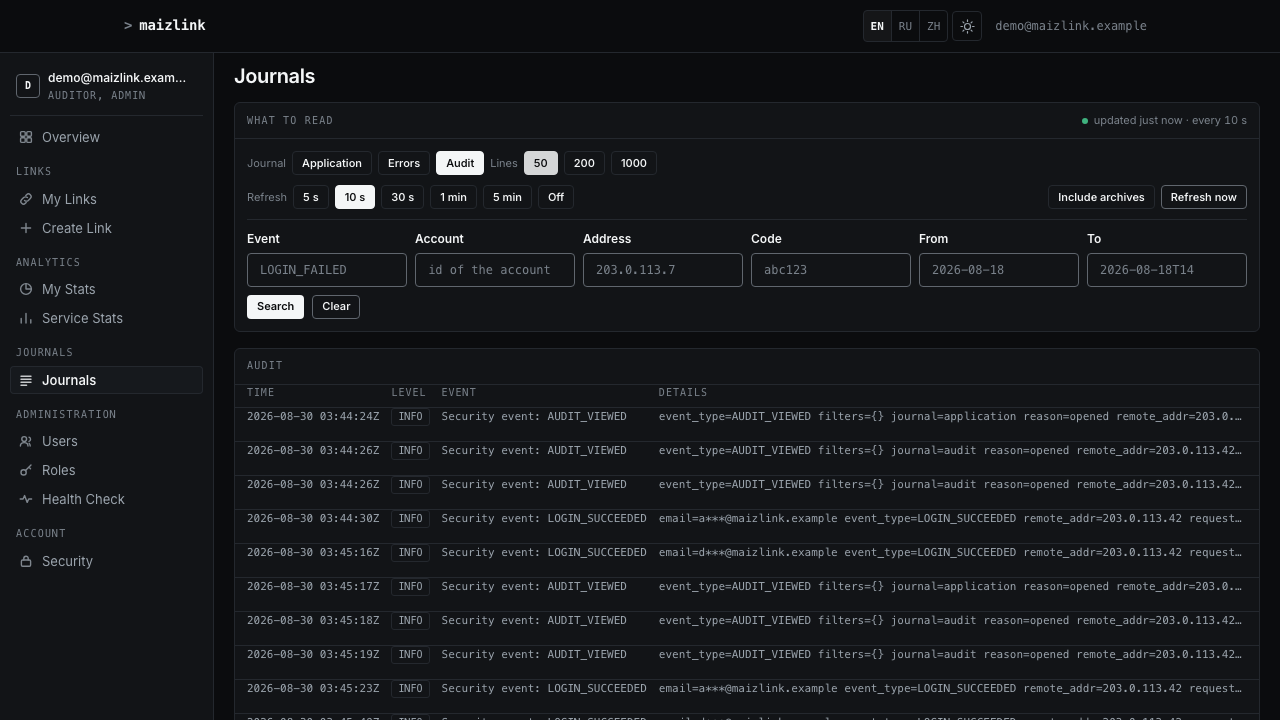
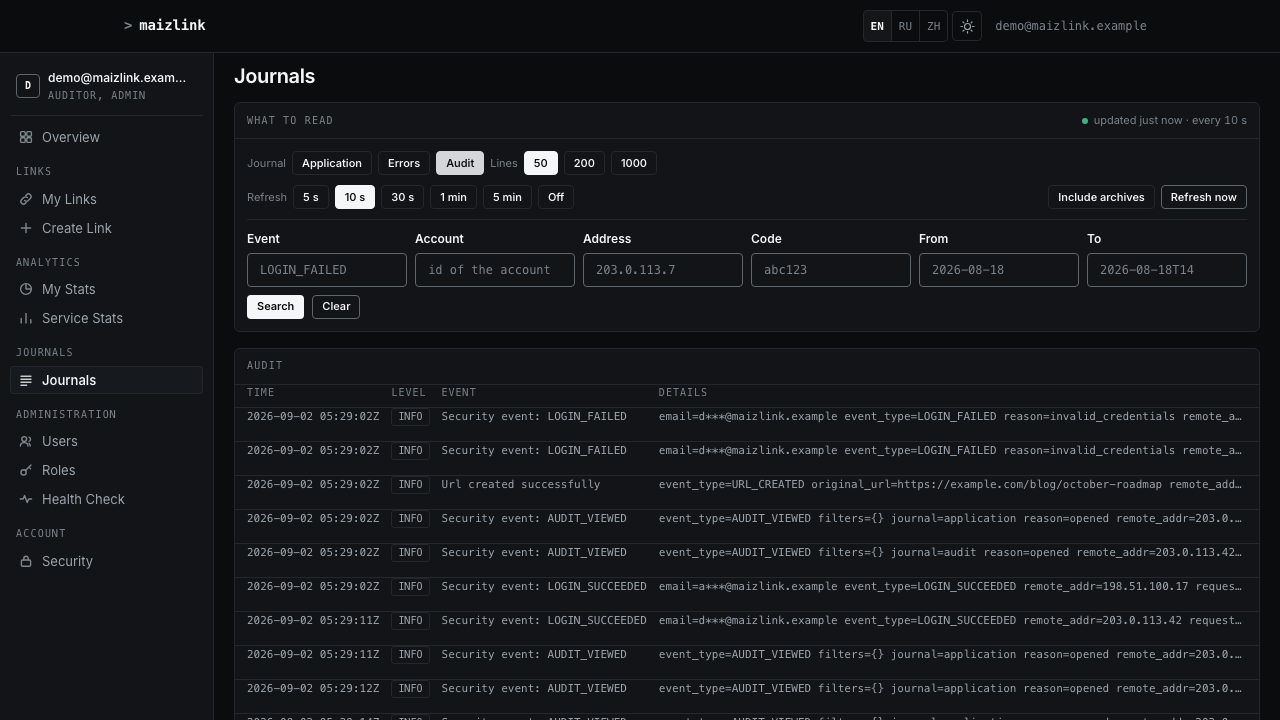
docs(media): reshoot every picture against the current interface, and show the square
- The screenshots were taken before the QR code existed, so the feature the README lists among the things this service does appeared in no picture at all -- and the two getting-started guides did not mention it in prose either, which is how a feature ships and stays invisible - `link-qr.png` is new and is where that is fixed: one link's own page, with the destination, the SVG square, the click totals and the chart of its visits. Both guides gained a paragraph beside it saying what the square encodes and why that is the short address rather than the destination -- the click is still counted, the expiry still applies, and deleting the link stops every printed copy - `demo.gif` is rebuilt over the same story with two beats added: the link's own page with its square, and the users page. Fifteen frames again, and the palette is quantised over all of them at once rather than over the first, because a palette taken from a light frame collapses the chart colours on every dark one - `dashboard.png`, `journals.png` and `sidebar-by-role.png` are retaken against the current pages. `role-permissions.png` came back byte for byte identical, which is the honest answer for a page that has not changed - The journal picture is better evidence than the one it replaces: it shows a refused sign-in, a link created and the audit being read, rather than nine identical lines. Its addresses are from the documentation ranges, reached by trusting the stand's own gateway, so nothing real is published
[…]

diff --git a/tests/live/browser_test.py b/tests/live/browser_test.py
@@ -7,7 +7,7 @@ drives the Flask test client, which has no browser in it -- so the twelve
 files that turn an API answer into something a person reads are, as far as
 any other run can tell, empty. Reversing ``data.message || data.error`` in
 all twelve -- putting the machine-readable code back in front of the
-sentence on every form -- leaves the suite green at 5209 and the HTTP run
+sentence on every form -- leaves the suite green at 5210 and the HTTP run
 green at 159/159, and takes this one down to twenty of the sixty-seven
 checks it held when that was measured. The suite size and the HTTP figure
 are the live ones, kept by `test_the_documented_suite_size` and by the

diff --git a/tests/unit/test_the_translations_carry_the_same_facts.py b/tests/unit/test_the_translations_carry_the_same_facts.py
@@ -77,7 +77,7 @@ EXPECTED = {
     },
     "docs/getting-started.md": {
         "setting": 22, "command": 10, "route": 4, "permission": 8,
-        "image": 1, "number": 25,
+        "image": 2, "number": 25,
     },
 }
 """How much each pattern finds today, in the English of each pair.

diff --git a/README.ru.md b/README.ru.md
@@ -11,7 +11,7 @@
 
 [![tests](https://github.com/IAMN1/link-shortener/actions/workflows/tests.yml/badge.svg)](https://github.com/IAMN1/link-shortener/actions/workflows/tests.yml)
 [![Python 3.12](https://img.shields.io/badge/python-3.12-3776AB?logo=python&logoColor=white)](https://www.python.org/)
-[![тестов: 5209](https://img.shields.io/badge/%D1%82%D0%B5%D1%81%D1%82%D0%BE%D0%B2-5209-0b5d3b)](docs/testing.md)
+[![тестов: 5210](https://img.shields.io/badge/%D1%82%D0%B5%D1%81%D1%82%D0%BE%D0%B2-5210-0b5d3b)](docs/testing.md)
 [![покрытие: 98%](https://img.shields.io/badge/%D0%BF%D0%BE%D0%BA%D1%80%D1%8B%D1%82%D0%B8%D0%B5-98%25-0b5d3b)](docs/testing.md)
 [![mypy: 0](https://img.shields.io/badge/mypy-0%20%D0%BE%D1%88%D0%B8%D0%B1%D0%BE%D0%BA-0b5d3b)](docs/testing.md)
 [![лицензия: Apache 2.0](https://img.shields.io/badge/%D0%BB%D0%B8%D1%86%D0%B5%D0%BD%D0%B7%D0%B8%D1%8F-Apache%202.0-blue)](LICENSE)
@@ -23,7 +23,7 @@
 
 [English](README.md) · **Русский**
 
-<img src="docs/media/demo.gif" alt="Длинный адрес сокращают, переключают тему на тёмную и открывают панель: ссылки, месяц статистики по устройствам и браузерам, журнал аудита и редактор ролей" width="820">
+<img src="docs/media/demo.gif" alt="Длинный адрес сокращают, переключают тему на тёмную и открывают панель: ссылки, страница одной ссылки с её QR-квадратом, месяц статистики по устройствам и браузерам, журнал аудита, список учётных записей и редактор ролей" width="820">
 
 </div>
 
@@ -213,7 +213,7 @@ flowchart LR
 ## Тестирование
 
 ```bash
-uv run pytest tests/                      # 5209 тестов
+uv run pytest tests/                      # 5210 тестов
 uv run python tests/live/smoke_test.py    # 159 проверок по HTTP
 uv run python tests/live/browser_test.py  # 71 проверки настоящим браузером
 ```

diff --git a/README.md b/README.md
@@ -9,7 +9,7 @@ suite that fails when the documentation starts lying.
 
 [![tests](https://github.com/IAMN1/link-shortener/actions/workflows/tests.yml/badge.svg)](https://github.com/IAMN1/link-shortener/actions/workflows/tests.yml)
 [![Python 3.12](https://img.shields.io/badge/python-3.12-3776AB?logo=python&logoColor=white)](https://www.python.org/)
-[![tests: 5209](https://img.shields.io/badge/tests-5209-0b5d3b)](docs/testing.md)
+[![tests: 5210](https://img.shields.io/badge/tests-5210-0b5d3b)](docs/testing.md)
 [![coverage: 98%](https://img.shields.io/badge/coverage-98%25-0b5d3b)](docs/testing.md)
 [![mypy: strict](https://img.shields.io/badge/mypy-0%20errors-0b5d3b)](docs/testing.md)
 [![license: Apache 2.0](https://img.shields.io/badge/license-Apache%202.0-blue)](LICENSE)
@@ -21,7 +21,7 @@ suite that fails when the documentation starts lying.
 
 **English** · [Русский](README.ru.md)
 
-<img src="docs/media/demo.gif" alt="A long address is shortened, the theme is switched to dark, and the dashboard opens on its links, a month of visit statistics by device and browser, the audit journal and the role editor" width="820">
+<img src="docs/media/demo.gif" alt="A long address is shortened, the theme is switched to dark, and the dashboard opens on its links, a link's own page with its QR square, a month of visit statistics by device and browser, the audit journal, the users page and the role editor" width="820">
 
 </div>
 
@@ -213,7 +213,7 @@ Thirty-nine operations. Full description: `/api/openapi.json`, rendered at
 ## Testing
 
 ```bash
-uv run pytest tests/                      # 5209 tests
+uv run pytest tests/                      # 5210 tests
 uv run python tests/live/smoke_test.py    # 159 checks over HTTP
 uv run python tests/live/browser_test.py  # 71 checks in a real browser
 ```

diff --git a/docs/media/README.md b/docs/media/README.md
@@ -7,11 +7,22 @@ Screenshots and GIFs for the README and the guides.
 | `banner.png` | Both READMEs, at the top | 1280×360 |
 | `demo.gif` | The README, above the fold | 1280×720. A GIF because GitHub does not autoplay video in a README |
 | `dashboard.png` | [Getting started](../getting-started.md) | The panel an account gets |
+| `link-qr.png` | [Getting started](../getting-started.md) | One link's own page: its QR square, its counters and its visits |
 | `journals.png` | [Operations](../operations.md) | The audit journal and its filters |
 | `sidebar-by-role.png` | [Development](../development.md) | The same template rendered for two roles |
 | `role-permissions.png` | [Architecture](../architecture.md) | The fifteen permissions a role is built from |
 
 Everything here is a screenshot of the running service, not a mock-up.
+`banner.png` is the exception and the only drawn one: it carries the name
+and the tagline rather than any part of the interface, so it does not age
+with the pages.
+
+Taken against a stack of its own -- own project name, own volumes, seeded
+with one demonstration account, six links and a month of visits -- so the
+figures in them are consistent from picture to picture: six links, 4041
+clicks. The addresses in the journal are from the documentation ranges
+(`203.0.113.0/24`, `198.51.100.0/24`), reached by trusting the stack's own
+gateway, so no real address is published.
 
 Screenshots age faster than prose, so there are few of them, and each one
 shows something the text cannot say on its own.

diff --git a/docs/getting-started.md b/docs/getting-started.md
@@ -70,6 +70,18 @@ The theme is the dark one — the control for it sits in the header, and the
 choice is kept in a cookie and applied by the server before the page is
 painted, so nothing flashes on the way in.
 
+Open a link from **My Links** and the page shows what that one code has
+done — where it points, how often it has been followed, and a QR square
+for the short address:
+
+<img src="media/link-qr.png" alt="A link's own page: the destination, a QR code for the short address, the click totals and a chart of its visits" width="820">
+
+The square encodes the **short** URL and never the destination, which is
+what keeps a printed code honest: the click is still counted, the expiry
+still applies, and deleting the link stops every copy of the square. It is
+an SVG, and it answers at `/api/v1/links/<code>/qr` on its own, so a poster
+or a slide can fetch it without opening the panel.
+
 ---
 
 ## What those commands did

diff --git a/CHANGELOG.md b/CHANGELOG.md
@@ -156,7 +156,7 @@ frozen" is the honest one.
   pages.
 - **Docker Compose stack** — application, PostgreSQL, two Redis instances,
   a Celery worker and log rotation, with a development overlay.
-- **Test suite** — 5209 tests, 98.65% statement coverage against a floor of
+- **Test suite** — 5210 tests, 98.65% statement coverage against a floor of
   88%, plus two live runs against a real stack: 159 HTTP checks and 71
   browser checks. CI runs the suite twice, in a clean environment and a
   polluted one.

diff --git a/CONTRIBUTING.md b/CONTRIBUTING.md
@@ -43,7 +43,7 @@ is declared any more; running one is not formatting a change, it is
 reformatting the project.
 
 ```bash
-uv run pytest tests/                      # 5209 tests, 88% coverage floor
+uv run pytest tests/                      # 5210 tests, 88% coverage floor
 uv run flake8 src tests
 uv run pylint src                         # floor 9.0
 uv run bandit -r src -q

diff --git a/docs/testing.md b/docs/testing.md
@@ -1,6 +1,6 @@
 # Testing
 
-**5209 tests**, 98.65% coverage against a floor of 88%, plus two live runs
+**5210 tests**, 98.65% coverage against a floor of 88%, plus two live runs
 pytest does not collect. This page is how to run them and what each level is
 actually for.
 
